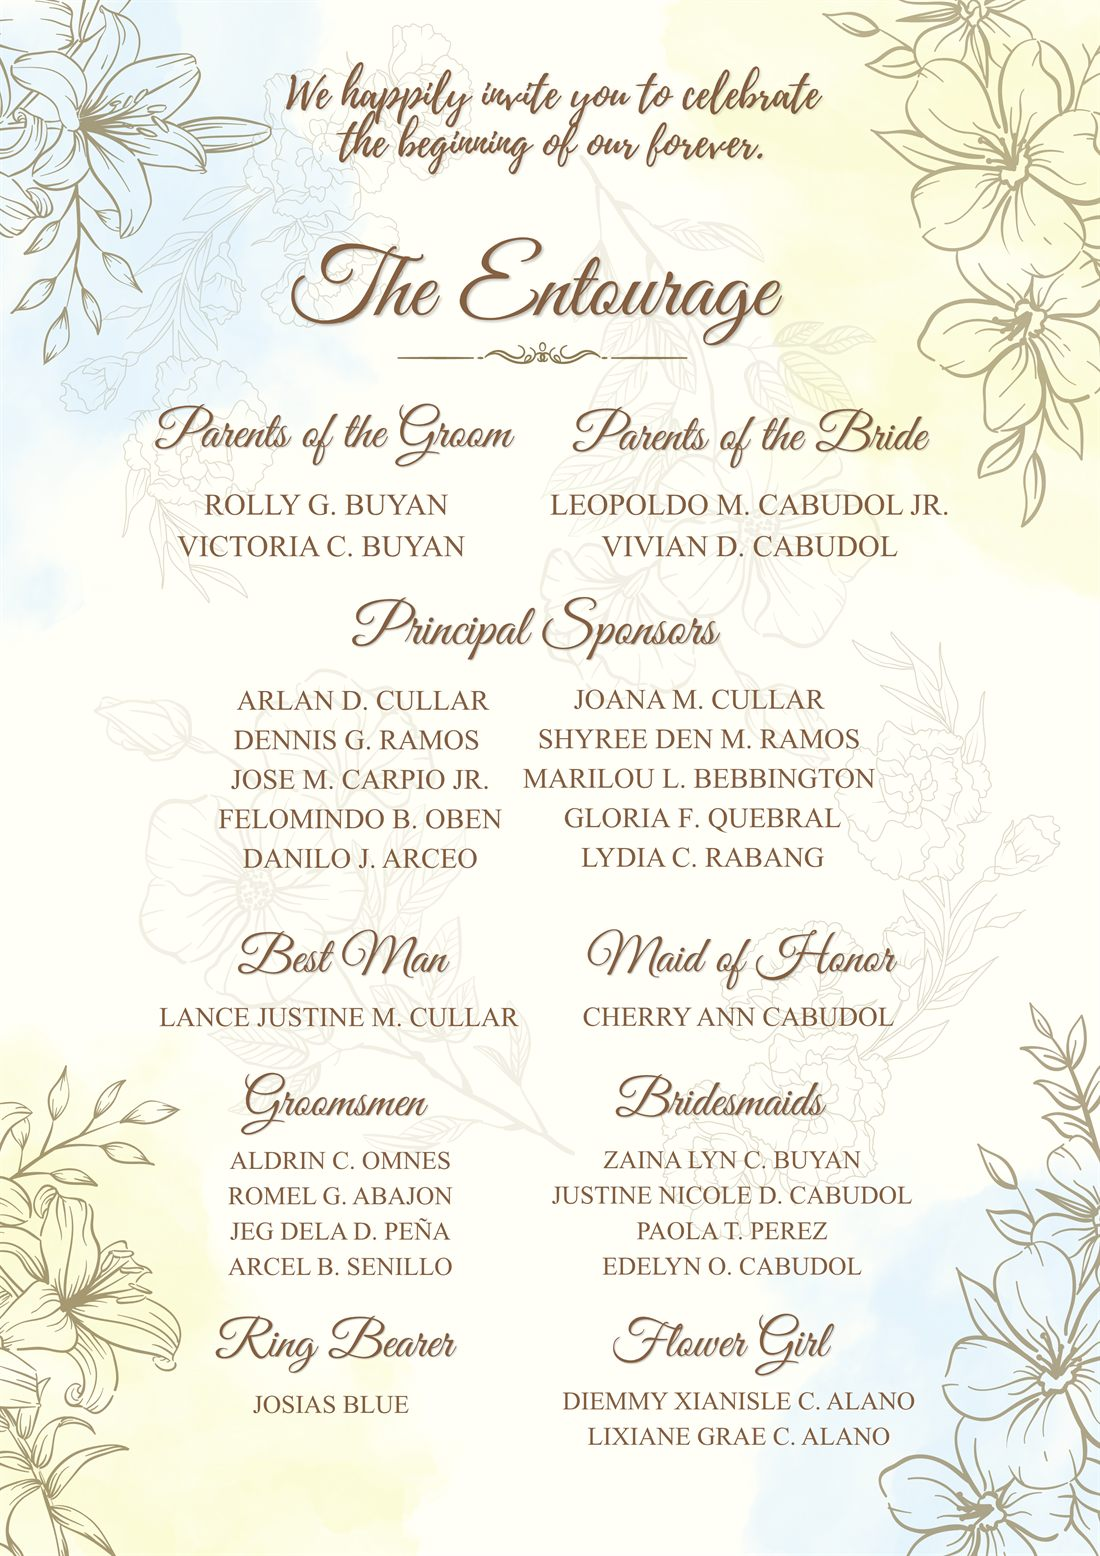
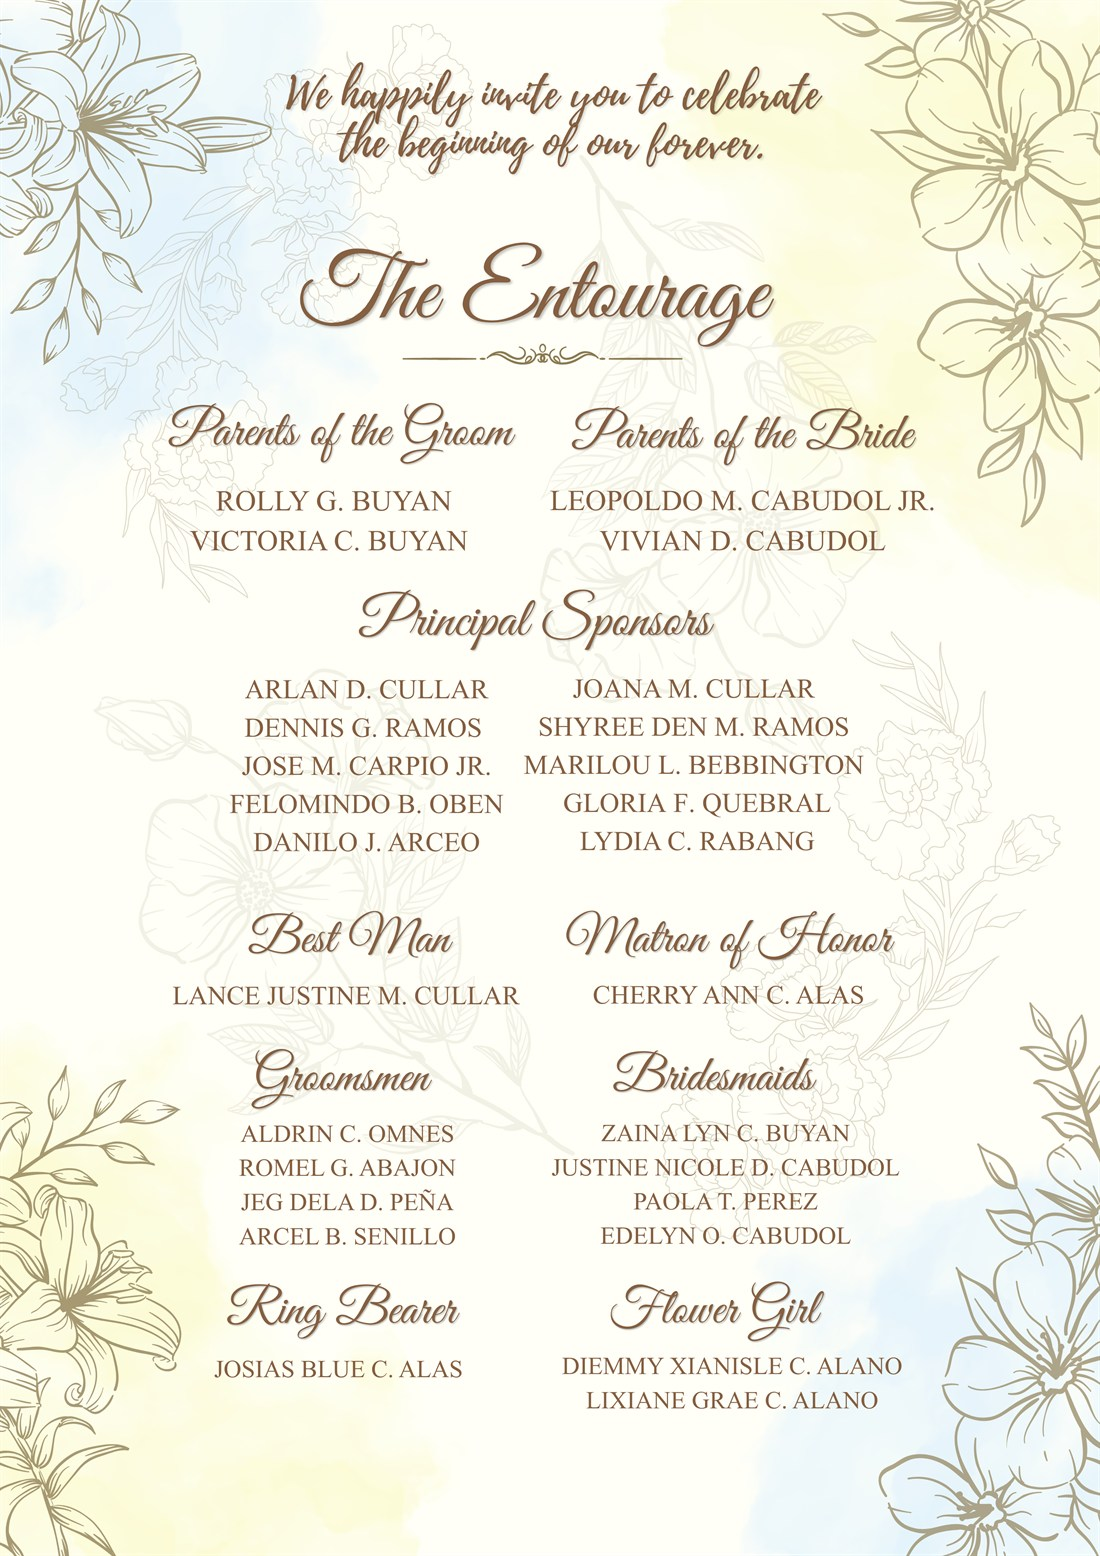
Replace the entourage invitation with the revised card.

diff --git a/index.html b/index.html
@@ -518,7 +518,7 @@
                 <span class="proposal-slide__edge" aria-hidden="true"></span>
                 <div class="proposal-slide__holo" aria-hidden="true"></div>
                 <div class="proposal-slide__frame">
-                  <img data-src="assets/invitations/entourage.jpg" alt="Entourage invitation card" width="1100" height="1556" loading="lazy" />
+                  <img data-src="assets/invitations/entourage.jpg?v=2" alt="Entourage invitation card" width="1100" height="1556" loading="lazy" />
                 </div>
               </div>
               <div class="proposal-slide__badge">
